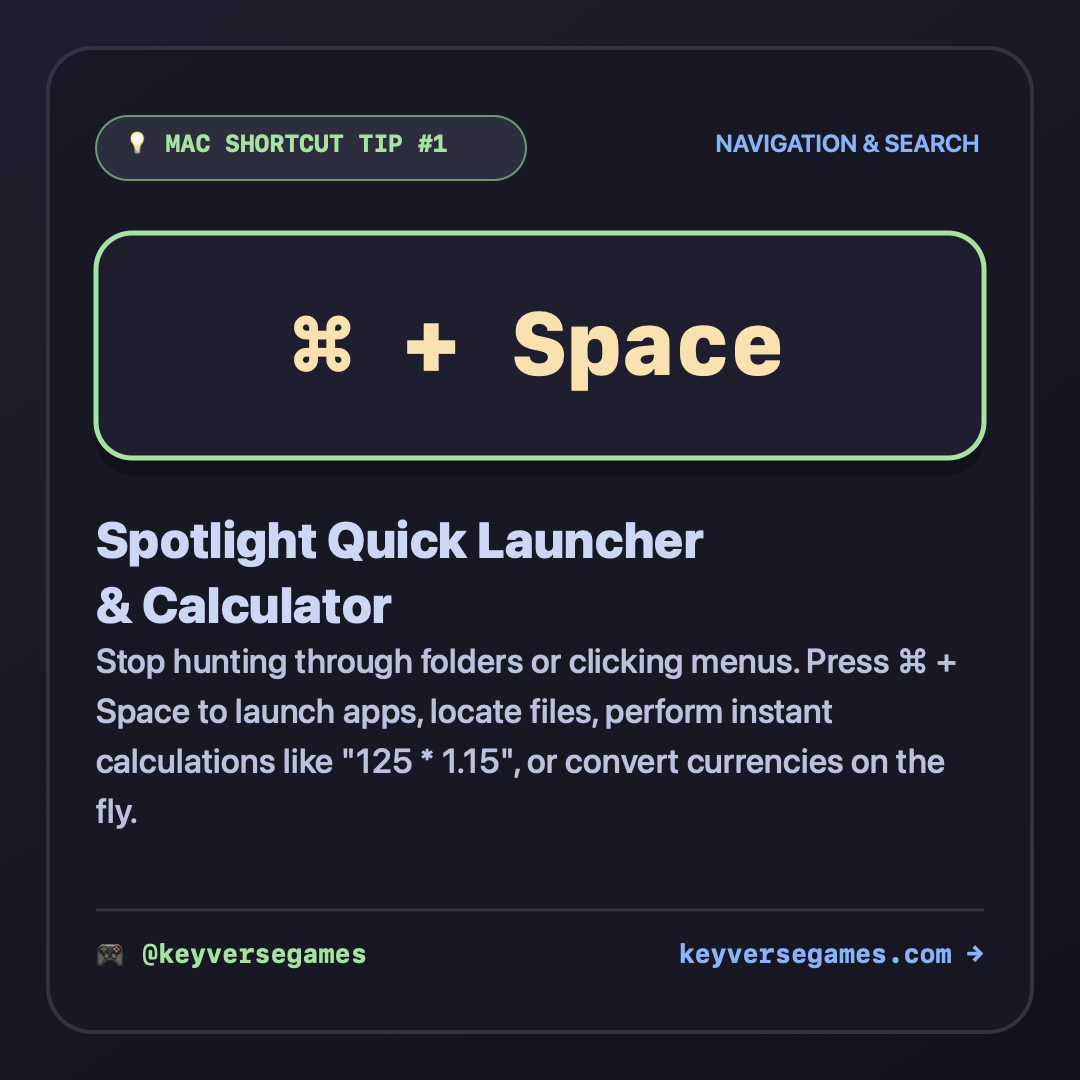
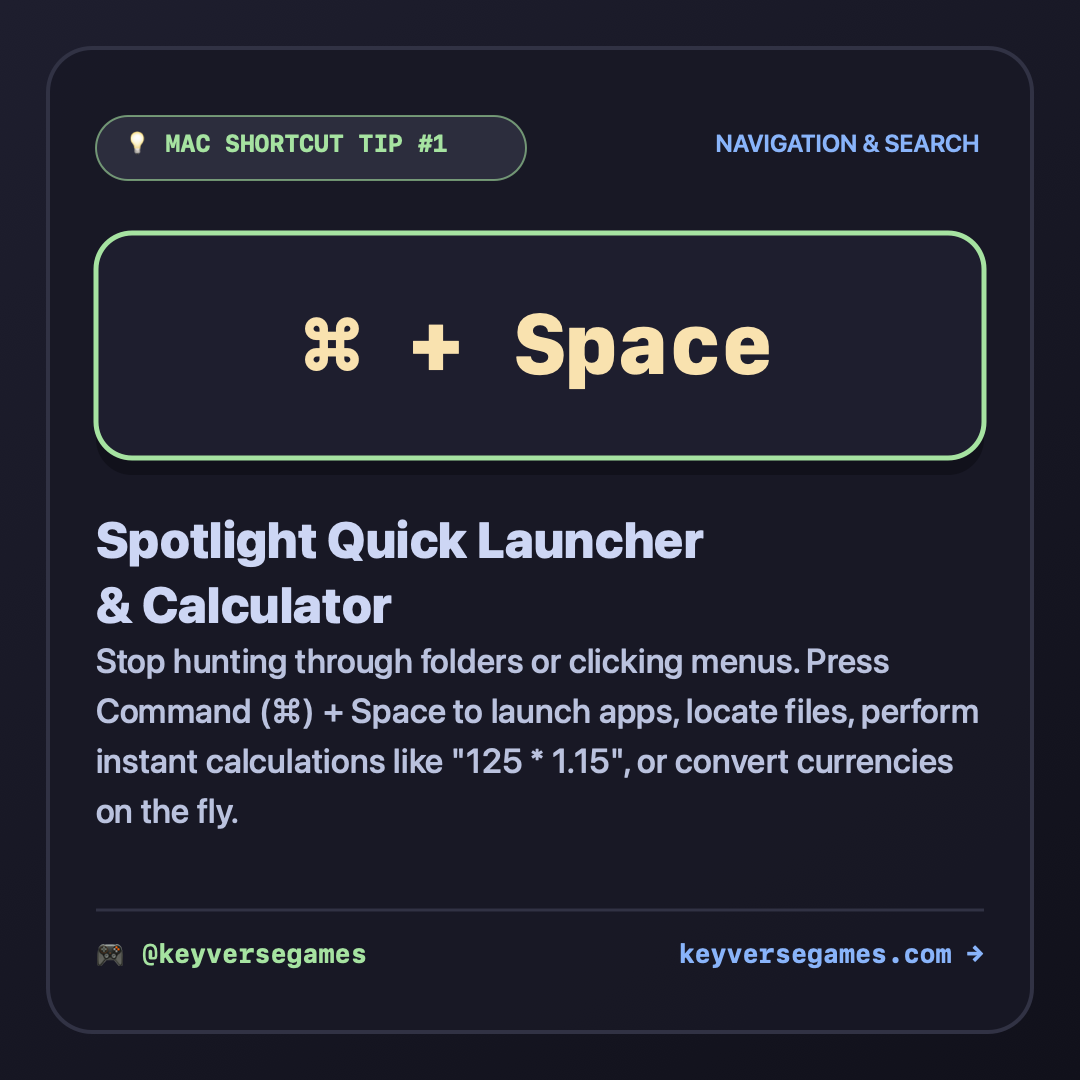
Render crisp Command symbol and spell out modifier keys for clarity

diff --git a/scripts/generate-instagram-cards.swift b/scripts/generate-instagram-cards.swift
@@ -11,36 +11,36 @@ struct ShortcutTip {
 }
 
 let tips: [ShortcutTip] = [
-    ShortcutTip(index: 1, keys: "⌘ + Space", title: "Spotlight Quick Launcher & Calculator", category: "Navigation & Search", desc: "Stop hunting through folders or clicking menus. Press ⌘ + Space to launch apps, locate files, perform instant calculations like \"125 * 1.15\", or convert currencies on the fly."),
-    ShortcutTip(index: 2, keys: "⌘ + Tab", title: "Instant Application Switcher", category: "Window & App Control", desc: "Cycle through running apps effortlessly. Hold ⌘ and tap Tab to move forward (or ` for backward). While holding ⌘, tap Q to quit the highlighted app or H to hide it."),
-    ShortcutTip(index: 3, keys: "⌘ + Shift + 4, Space", title: "Pixel-Perfect Window Screenshot", category: "Productivity & Screen Capture", desc: "Press ⌘ + Shift + 4, tap Spacebar, and hover over any open window or menu. Click to capture a crisp screenshot with a clean Apple drop shadow."),
-    ShortcutTip(index: 4, keys: "⌘ + Shift + 5", title: "Screen Recording & Capture HUD", category: "Productivity & Screen Capture", desc: "Summon the unified capture control bar. Record entire displays, selected portions, capture windows, and configure countdown timers or save locations with a single shortcut."),
-    ShortcutTip(index: 5, keys: "⌥ + ⌘ + Esc", title: "Force Quit Frozen Applications", category: "System Control", desc: "When an app locks up with the spinning pinwheel, press Option + Command + Esc to open the Force Quit dialog and terminate it immediately without rebooting."),
-    ShortcutTip(index: 6, keys: "⌘ + W  vs  ⌘ + Q", title: "Closing Windows vs Quitting Apps", category: "App Management", desc: "⌘ + W closes only the active tab or document window. ⌘ + Q completely quits the application process and frees up system memory."),
-    ShortcutTip(index: 7, keys: "⌥ + ⌘ + C  /  ⌥ + ⌘ + V", title: "Copy & Paste Text Formatting", category: "Text & Typography", desc: "Copy styling (font family, weight, color, margins) from highlighted text in Pages, Keynote, TextEdit, or Mail with ⌥⌘C, then apply it onto target text with ⌥⌘V."),
-    ShortcutTip(index: 8, keys: "⌃ + ⌘ + Space", title: "Emoji & Symbol Viewer", category: "Text Editing", desc: "Open macOS’s full Character Viewer palette anywhere you can type. Search emojis, Greek symbols, math operators, accents, and custom unicode symbols with ease."),
-    ShortcutTip(index: 9, keys: "⌘ + ⌥ + D", title: "Quickly Toggle the Dock", category: "Desktop & Workspace", desc: "Instantly toggle hiding and showing the macOS Dock to reclaim vertical workspace on smaller MacBook laptop displays."),
-    ShortcutTip(index: 10, keys: "⌃ + ⌘ + Q", title: "Lock Screen Instantly", category: "Privacy & Security", desc: "Stepping away from your Mac? Press Control + Command + Q to lock your screen immediately without putting your computer to sleep or losing active tasks."),
-    ShortcutTip(index: 11, keys: "⌘ + Shift + .", title: "Toggle Hidden Files & Dotfiles", category: "Finder Mastery", desc: "Need to inspect .env, .git, or hidden system files? Press ⌘ + Shift + . (Period) inside Finder or Open/Save dialogs to toggle invisible files on and off."),
-    ShortcutTip(index: 12, keys: "⌘ + Shift + G", title: "Finder \"Go to Folder\" Path Jump", category: "Finder Mastery", desc: "Jump directly to UNIX directories like ~/Library, /usr/local, or /etc in Finder. Supports full shell tab-completion and tilde user shortcuts."),
-    ShortcutTip(index: 13, keys: "⌥ + Delete", title: "Delete Entire Word Backwards", category: "Text Editing Speed", desc: "Stop tapping Backspace multiple times. Option + Delete removes the entire preceding word in one swift stroke across all Mac apps and browsers."),
-    ShortcutTip(index: 14, keys: "⌘ + Delete", title: "Delete Entire Line to Beginning", category: "Text Editing Speed", desc: "Wipe out everything from your cursor to the beginning of the line instantly. Perfect for resetting command line prompts or retyping sentences."),
-    ShortcutTip(index: 15, keys: "Fn + Delete  (or ⌃ + D)", title: "Forward Delete on Mac Keyboards", category: "Text Editing Speed", desc: "MacBook keyboards lack a dedicated Del key. Hold Fn and press Delete (or press Control + D) to delete characters to the right of the cursor."),
-    ShortcutTip(index: 16, keys: "⌘ + ↑ / ↓ Arrow", title: "Jump to Top or Bottom of Page", category: "Navigation", desc: "Navigate long documents, codebases, or web pages in an instant. ⌘ + Up arrow jumps to the top; ⌘ + Down arrow jumps to the bottom."),
-    ShortcutTip(index: 17, keys: "⌥ + ← / → Arrow", title: "Navigate Word by Word", category: "Text Editing Speed", desc: "Hold Option and press Left or Right arrow to jump your cursor across words rather than single letters. Combine with Shift to highlight word-by-word."),
-    ShortcutTip(index: 18, keys: "Spacebar in Finder", title: "Quick Look Preview", category: "Finder Mastery", desc: "Highlight any PDF, photo, video, or code file and tap Spacebar for an instant high-resolution preview without launching heavy desktop apps."),
-    ShortcutTip(index: 19, keys: "⌘ + Shift + T", title: "Reopen Closed Browser Tab", category: "Web Browsing", desc: "Accidentally closed an essential tab? ⌘ + Shift + T restores your last closed tab in Safari, Chrome, Edge, and Arc, retaining your browsing history."),
-    ShortcutTip(index: 20, keys: "⌘ + ⌥ + I", title: "Open Web Developer Tools", category: "Developer & Power User", desc: "Inspect webpage elements, view JavaScript console output, and diagnose network requests with ⌘ + Option + I in all major macOS web browsers."),
-    ShortcutTip(index: 21, keys: "⌘ + 1 / 2 / 3 / 4", title: "Switch Finder Views in Seconds", category: "Finder Mastery", desc: "Toggle Finder layout modes instantly: ⌘1 for Icon view, ⌘2 for List view, ⌘3 for Column view (the power user favorite), and ⌘4 for Gallery view."),
-    ShortcutTip(index: 22, keys: "⌘ + ⌥ + V in Finder", title: "Move File (Cut & Paste Equivalent)", category: "Finder Mastery", desc: "Mac has no \"Cut\" shortcut for files, but it has something better: copy the file with ⌘C, navigate to the target folder, and press ⌥⌘V to move it there."),
-    ShortcutTip(index: 23, keys: "⌥ + Drag", title: "Hold Option to Duplicate Anything", category: "Productivity & Design", desc: "Hold the Option key while dragging files in Finder, shapes in Figma/Keynote, or notes in Apple Notes to create a duplicate copy at the drop location."),
-    ShortcutTip(index: 24, keys: "⌘ + [  and  ⌘ + ]", title: "Back and Forward Navigation", category: "Navigation", desc: "Go backward and forward across pages in Safari, Finder folder hierarchies, Xcode, and many native macOS apps without reaching for toolbar arrows."),
-    ShortcutTip(index: 25, keys: "⌃ + Down Arrow", title: "App Exposé (Active App Windows)", category: "Window Management", desc: "Have 6 Finder or browser windows open simultaneously? Control + Down Arrow tiles only the windows of the currently active app for quick selection."),
-    ShortcutTip(index: 26, keys: "⌘ + H  and  ⌘ + ⌥ + H", title: "Hide Window & Hide Others", category: "Window Management", desc: "⌘ + H hides the active app instantly. ⌘ + Option + H hides every other app on your screen, instantly creating a distraction-free focused workspace."),
-    ShortcutTip(index: 27, keys: "⌃ + ⌘ + F", title: "Toggle Full Screen Mode", category: "Window Management", desc: "Expand your active window to a dedicated macOS full-screen Space with ⌃⌘F. Press it again to return cleanly to your desktop layout."),
-    ShortcutTip(index: 28, keys: "⌘ + Shift + N", title: "Create New Folder in Finder", category: "Finder Mastery", desc: "Create and name a new folder in your current Finder window instantly without touching the mouse or context menus."),
-    ShortcutTip(index: 29, keys: "⌘ + K in Finder", title: "Connect to Network Server", category: "Network & System", desc: "Open the Connect to Server dialog to mount SMB, AFP, or NFS network drives, NAS boxes, and shared office storage volumes."),
-    ShortcutTip(index: 30, keys: "⌥ + Shift + Vol/Bright", title: "Fine-Grained Audio & Display Steps", category: "Hardware Control", desc: "Hold Option + Shift while pressing the Volume or Display Brightness keys to adjust levels in quarter-step increments for the perfect setting.")
+    ShortcutTip(index: 1, keys: "⌘ + Space", title: "Spotlight Quick Launcher & Calculator", category: "Navigation & Search", desc: "Stop hunting through folders or clicking menus. Press Command (⌘) + Space to launch apps, locate files, perform instant calculations like \"125 * 1.15\", or convert currencies on the fly."),
+    ShortcutTip(index: 2, keys: "⌘ + Tab", title: "Instant Application Switcher", category: "Window & App Control", desc: "Cycle through running apps effortlessly. Hold Command (⌘) and tap Tab to move forward (or ` for backward). While holding ⌘, tap Q to quit the highlighted app or H to hide it."),
+    ShortcutTip(index: 3, keys: "⌘ + Shift + 4, then Space", title: "Pixel-Perfect Window Screenshot", category: "Productivity & Screen Capture", desc: "Press Command (⌘) + Shift + 4, tap Space, and hover over any open window or menu. Click to capture a crisp screenshot with a clean Apple drop shadow."),
+    ShortcutTip(index: 4, keys: "⌘ + Shift + 5", title: "Screen Recording & Capture HUD", category: "Productivity & Screen Capture", desc: "Press Command (⌘) + Shift + 5 to summon the unified capture control bar. Record entire displays, selected portions, capture windows, and set countdown timers."),
+    ShortcutTip(index: 5, keys: "Option + ⌘ + Esc", title: "Force Quit Frozen Applications", category: "System Control", desc: "When an app locks up with the spinning pinwheel, press Option + Command (⌘) + Esc to open the Force Quit dialog and terminate it immediately without rebooting."),
+    ShortcutTip(index: 6, keys: "⌘ + W vs ⌘ + Q", title: "Closing Windows vs Quitting Apps", category: "App Management", desc: "Command (⌘) + W closes only the active tab or document window. Command (⌘) + Q completely quits the application process and frees up system memory."),
+    ShortcutTip(index: 7, keys: "Option + ⌘ + C / V", title: "Copy & Paste Text Formatting", category: "Text & Typography", desc: "Copy styling (font family, weight, color, margins) from highlighted text in Pages, Keynote, TextEdit, or Mail with Option + Command (⌘) + C, then apply it with Option + ⌘ + V."),
+    ShortcutTip(index: 8, keys: "Control + ⌘ + Space", title: "Emoji & Symbol Viewer", category: "Text Editing", desc: "Press Control + Command (⌘) + Space anywhere you can type to open macOS's full Character Viewer palette for emojis, math operators, accents, and symbols."),
+    ShortcutTip(index: 9, keys: "⌘ + Option + D", title: "Quickly Toggle the Dock", category: "Desktop & Workspace", desc: "Press Command (⌘) + Option + D to instantly hide or show the macOS Dock and reclaim vertical workspace on smaller MacBook laptop displays."),
+    ShortcutTip(index: 10, keys: "Control + ⌘ + Q", title: "Lock Screen Instantly", category: "Privacy & Security", desc: "Stepping away from your Mac? Press Control + Command (⌘) + Q to lock your screen immediately without putting your computer to sleep or losing active tasks."),
+    ShortcutTip(index: 11, keys: "⌘ + Shift + .", title: "Toggle Hidden Files & Dotfiles", category: "Finder Mastery", desc: "Need to inspect .env, .git, or hidden system files? Press Command (⌘) + Shift + . (Period) inside Finder or Open/Save dialogs to toggle invisible files on and off."),
+    ShortcutTip(index: 12, keys: "⌘ + Shift + G", title: "Finder \"Go to Folder\" Path Jump", category: "Finder Mastery", desc: "Press Command (⌘) + Shift + G in Finder to jump directly to UNIX directories like ~/Library, /usr/local, or /etc with full shell tab-completion."),
+    ShortcutTip(index: 13, keys: "Option + Delete", title: "Delete Entire Word Backwards", category: "Text Editing Speed", desc: "Stop tapping Delete multiple times. Option + Delete removes the entire preceding word in one swift stroke across all Mac apps and browsers."),
+    ShortcutTip(index: 14, keys: "⌘ + Delete", title: "Delete Entire Line to Beginning", category: "Text Editing Speed", desc: "Press Command (⌘) + Delete to wipe out everything from your cursor to the beginning of the line instantly—perfect for retyping sentences or clearing prompts."),
+    ShortcutTip(index: 15, keys: "Fn + Delete (or Control + D)", title: "Forward Delete on Mac Keyboards", category: "Text Editing Speed", desc: "MacBook keyboards lack a dedicated Del key. Hold Fn and press Delete (or press Control + D) to delete characters to the right of the cursor."),
+    ShortcutTip(index: 16, keys: "⌘ + Up / Down Arrow", title: "Jump to Top or Bottom of Page", category: "Navigation", desc: "Navigate long documents, codebases, or web pages in an instant. Command (⌘) + Up Arrow jumps to the top; Command (⌘) + Down Arrow jumps to the bottom."),
+    ShortcutTip(index: 17, keys: "Option + Left / Right Arrow", title: "Navigate Word by Word", category: "Text Editing Speed", desc: "Hold Option and press Left Arrow or Right Arrow to jump your cursor across whole words rather than single letters. Add Shift to highlight word-by-word."),
+    ShortcutTip(index: 18, keys: "Space in Finder", title: "Quick Look Preview", category: "Finder Mastery", desc: "Highlight any PDF, photo, video, or code file in Finder and tap Space for an instant high-resolution preview without launching heavy desktop apps."),
+    ShortcutTip(index: 19, keys: "⌘ + Shift + T", title: "Reopen Closed Browser Tab", category: "Web Browsing", desc: "Accidentally closed an essential tab? Command (⌘) + Shift + T restores your last closed tab in Safari, Chrome, Edge, and Arc with browsing history intact."),
+    ShortcutTip(index: 20, keys: "⌘ + Option + I", title: "Open Web Developer Tools", category: "Developer & Power User", desc: "Inspect webpage elements, view JavaScript console output, and diagnose network requests with Command (⌘) + Option + I in all major macOS web browsers."),
+    ShortcutTip(index: 21, keys: "⌘ + 1 / 2 / 3 / 4", title: "Switch Finder Views in Seconds", category: "Finder Mastery", desc: "Toggle Finder layout modes instantly: Command (⌘) + 1 for Icon view, ⌘ + 2 for List view, ⌘ + 3 for Column view, and ⌘ + 4 for Gallery view."),
+    ShortcutTip(index: 22, keys: "⌘ + Option + V in Finder", title: "Move File (Cut & Paste Equivalent)", category: "Finder Mastery", desc: "Mac has no Cut shortcut for files, but something better: copy a file with Command (⌘) + C, open the target folder, and press Option + ⌘ + V to move it there."),
+    ShortcutTip(index: 23, keys: "Option + Drag", title: "Hold Option to Duplicate Anything", category: "Productivity & Design", desc: "Hold the Option key while dragging files in Finder, shapes in Figma/Keynote, or notes in Apple Notes to create a duplicate copy at the drop location."),
+    ShortcutTip(index: 24, keys: "⌘ + [ and ⌘ + ]", title: "Back and Forward Navigation", category: "Navigation", desc: "Press Command (⌘) + [ or ⌘ + ] to go backward and forward across pages in Safari, Finder folder hierarchies, and Xcode without reaching for toolbar arrows."),
+    ShortcutTip(index: 25, keys: "Control + Down Arrow", title: "App Exposé (Active App Windows)", category: "Window Management", desc: "Have 6 Finder or browser windows open simultaneously? Control + Down Arrow tiles only the windows of the currently active app for quick selection."),
+    ShortcutTip(index: 26, keys: "⌘ + H and ⌘ + Option + H", title: "Hide Window & Hide Others", category: "Window Management", desc: "Command (⌘) + H hides the active app instantly. Command (⌘) + Option + H hides every other app on your screen for a distraction-free workspace."),
+    ShortcutTip(index: 27, keys: "Control + ⌘ + F", title: "Toggle Full Screen Mode", category: "Window Management", desc: "Expand your active window to a dedicated macOS full-screen Space with Control + Command (⌘) + F. Press it again to return cleanly to your desktop."),
+    ShortcutTip(index: 28, keys: "⌘ + Shift + N", title: "Create New Folder in Finder", category: "Finder Mastery", desc: "Press Command (⌘) + Shift + N to create and name a new folder in your current Finder window instantly without touching the mouse or menus."),
+    ShortcutTip(index: 29, keys: "⌘ + K in Finder", title: "Connect to Network Server", category: "Network & System", desc: "Press Command (⌘) + K in Finder to open the Connect to Server dialog and mount SMB, AFP, or NFS network drives and shared storage volumes."),
+    ShortcutTip(index: 30, keys: "Option + Shift + Vol/Bright", title: "Fine-Grained Audio & Display Steps", category: "Hardware Control", desc: "Hold Option + Shift while pressing the Volume or Display Brightness keys to adjust levels in quarter-step increments for the perfect setting.")
 ]
 
 func color(_ hex: UInt32, alpha: CGFloat = 1.0) -> NSColor {
@@ -182,7 +182,7 @@ func generateTipCard(tip: ShortcutTip, outputPath: String) {
         let centerPara = NSMutableParagraphStyle()
         centerPara.alignment = .center
 
-        let keyFontSize: CGFloat = tip.keys.count > 18 ? 62 : (tip.keys.count > 12 ? 74 : 88)
+        let keyFontSize: CGFloat = tip.keys.count > 24 ? 44 : (tip.keys.count > 18 ? 54 : (tip.keys.count > 12 ? 68 : 84))
         let keyAttrs: [NSAttributedString.Key: Any] = [
             .font: NSFont.monospacedSystemFont(ofSize: keyFontSize, weight: .heavy),
             .foregroundColor: color(0xf9e2af),
